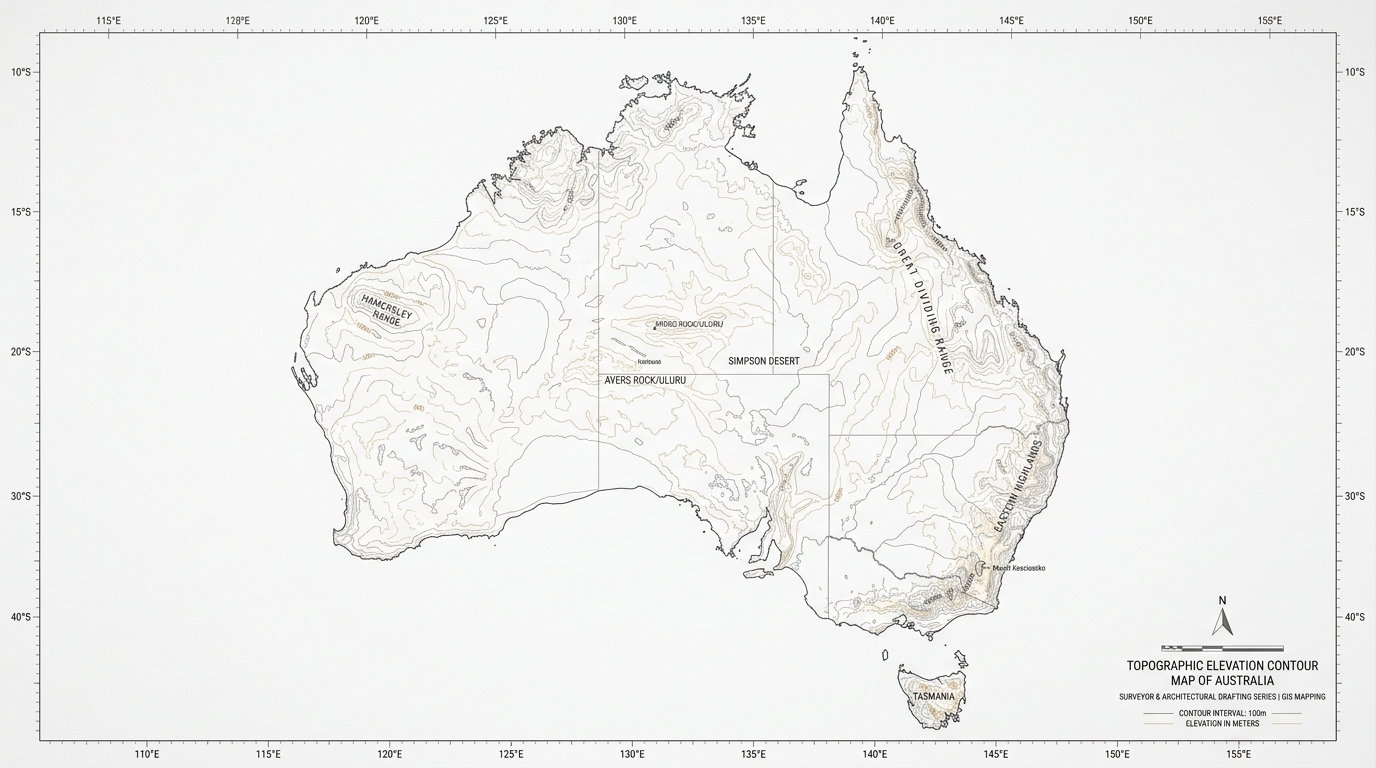
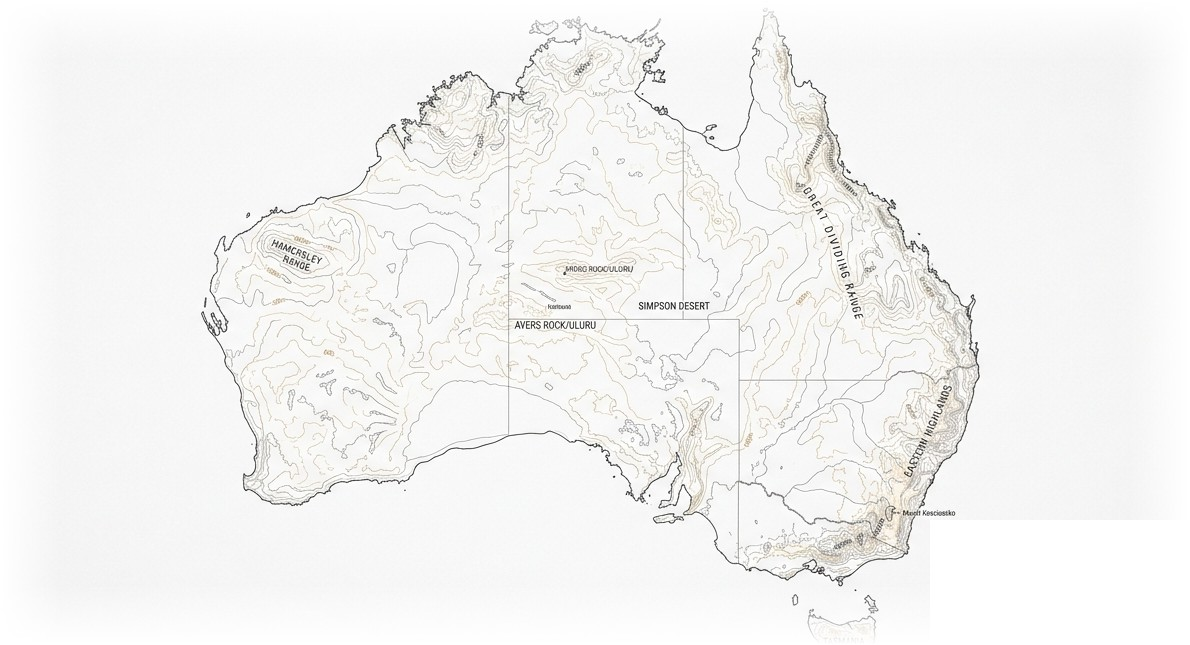
fix(design): strip map frame borders and degree tick lines with feathered radial mask

diff --git a/apps/web/src/app/page.tsx b/apps/web/src/app/page.tsx
@@ -144,7 +144,7 @@ export default async function Home() {
         {/* Authentic Australian Topography & Geodetic Surveyor Blueprint (Slate & Desert Ochre on Pure White) */}
         <div
           aria-hidden="true"
-          className="pointer-events-none absolute inset-0 z-0 opacity-[0.10] mix-blend-multiply bg-center bg-cover"
+          className="pointer-events-none absolute inset-0 z-0 opacity-[0.09] mix-blend-multiply bg-center bg-cover [mask-image:radial-gradient(ellipse_at_center,black_60%,transparent_92%)]"
           style={{
             backgroundImage: "url('/brand/hero_cartography.jpg')",
           }}
